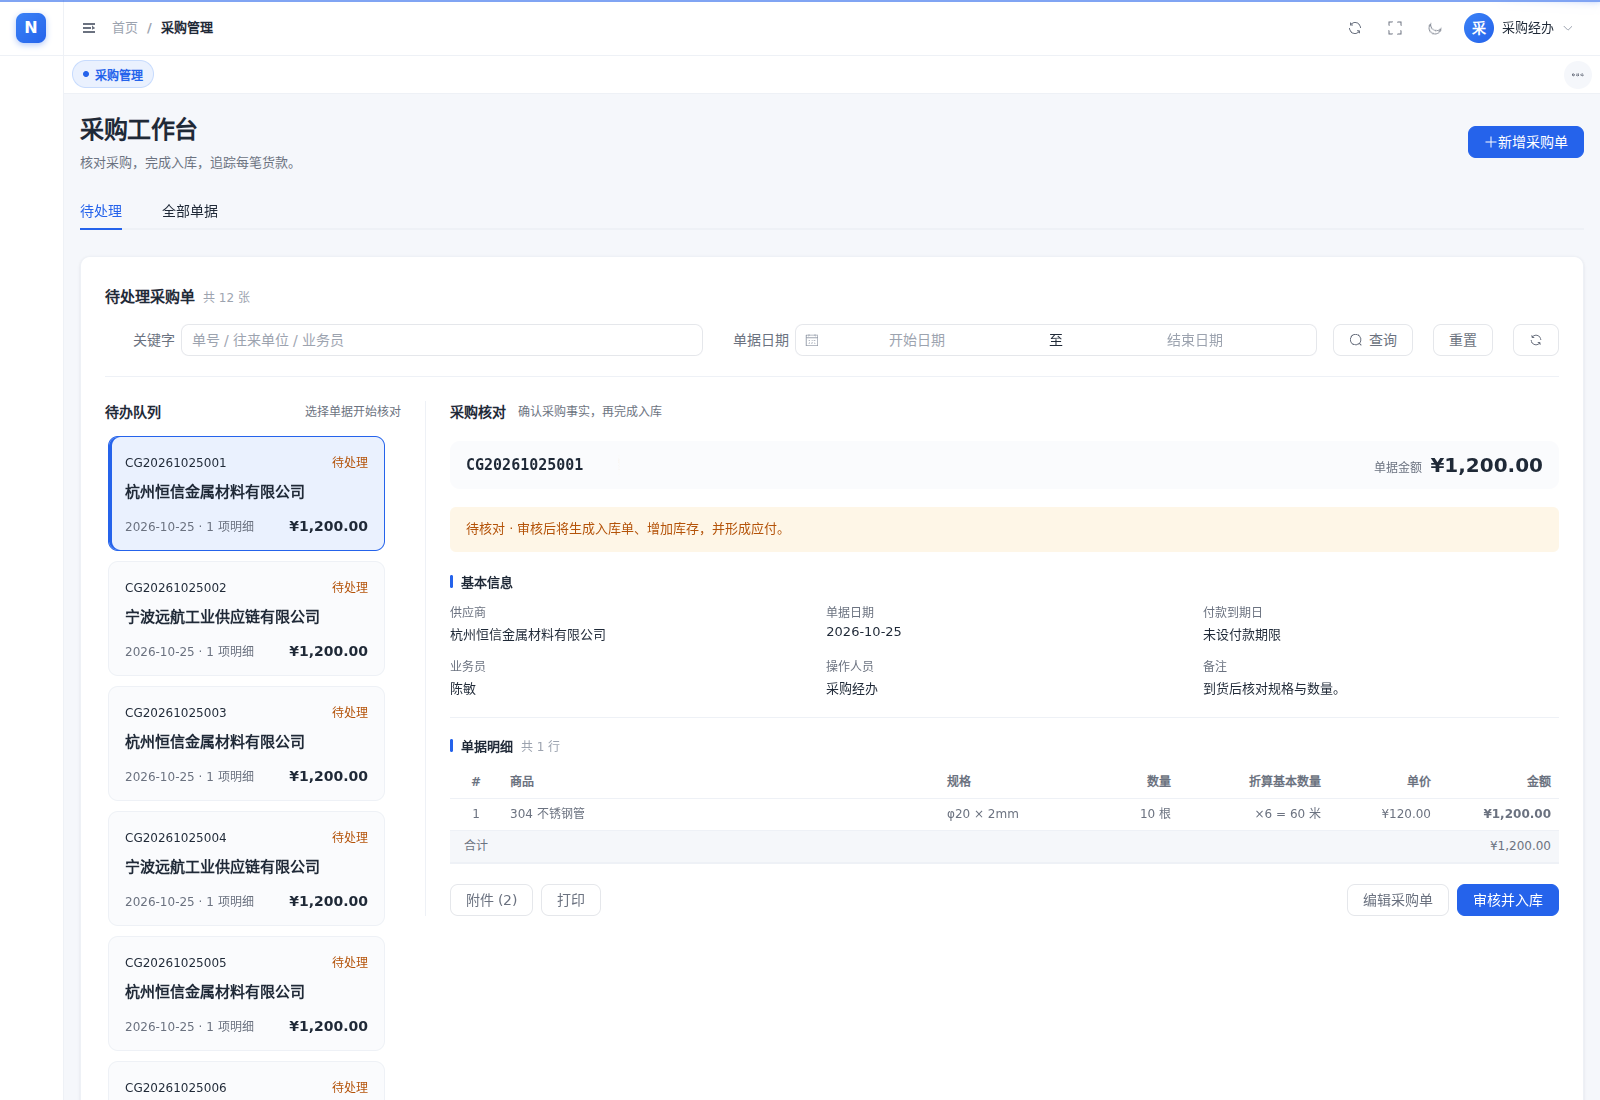
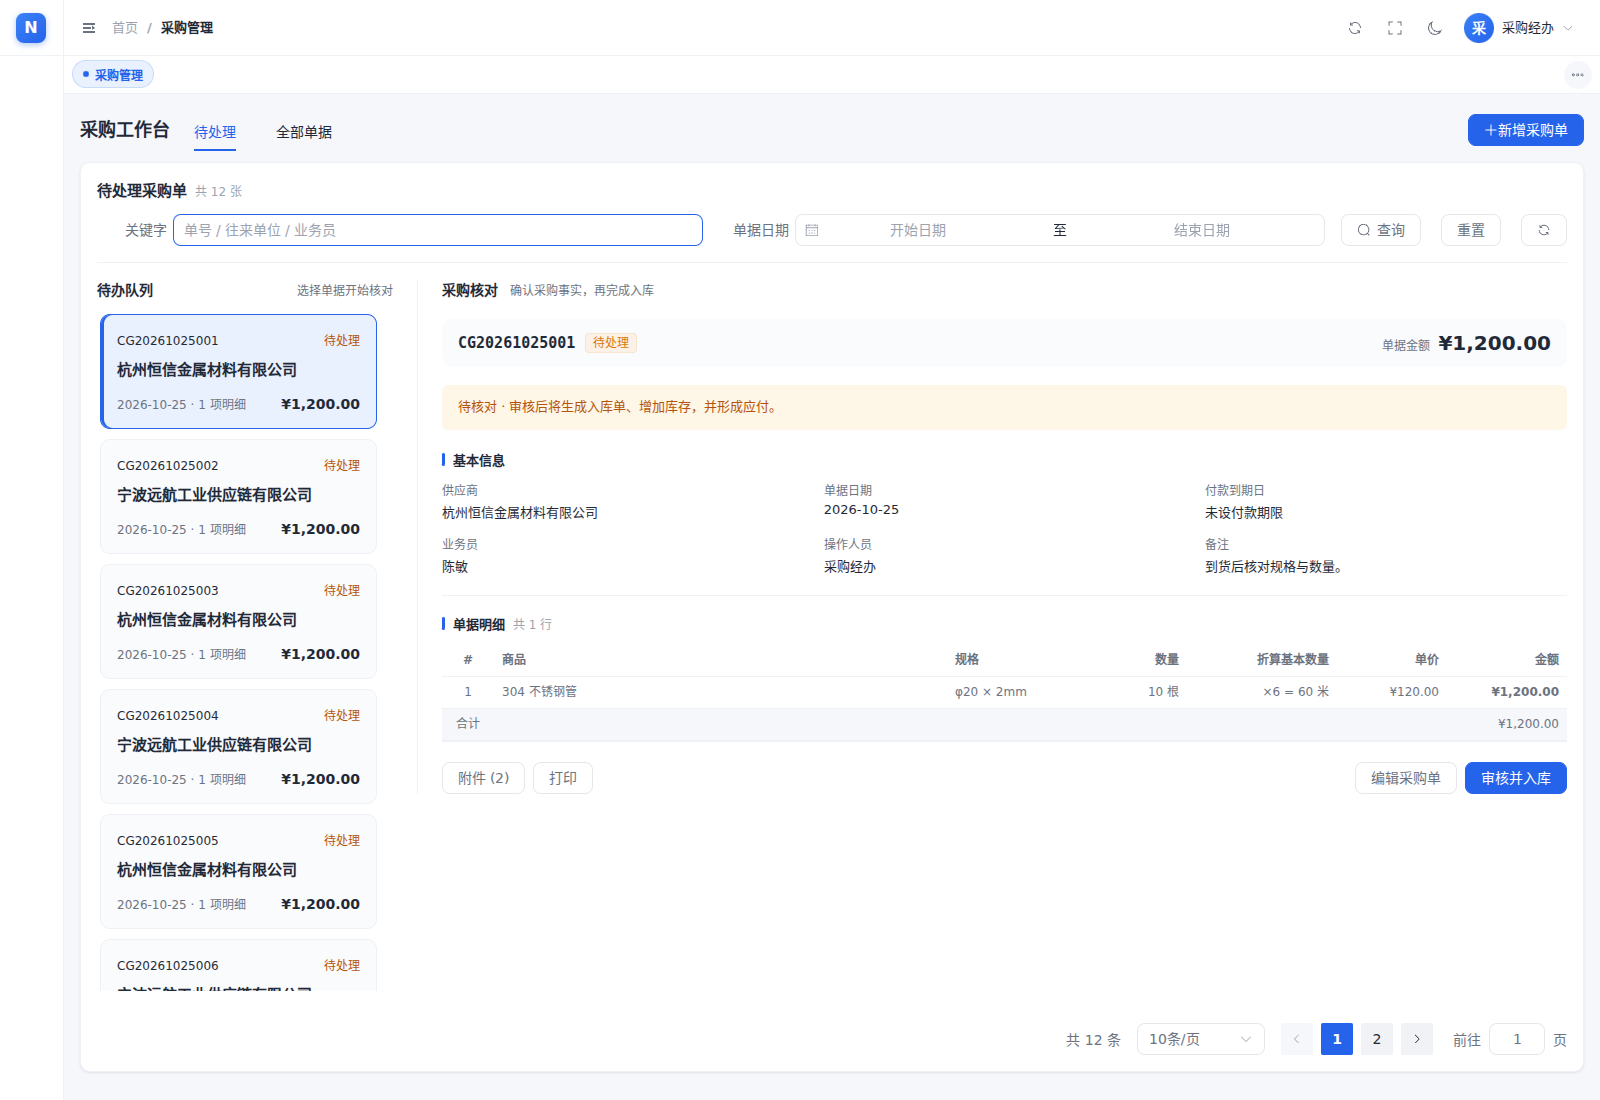
fix(ui): compact purchase header and prevent stretched queue cards
Put title, view tabs and create action in one row without the subtitle. Keep single-record queue cards at their natural height and keep purchase dates/count headers on one line. Add geometry checks for the reported screenshot cases and refresh the preview.

Validated with 27 unit tests, production build and 15 mocked-API browser scenarios.

diff --git a/frontend/src/views/inv/components/OrderPage.vue b/frontend/src/views/inv/components/OrderPage.vue
@@ -943,10 +943,15 @@ function onKeywordInput(): void {
 <template>
   <div class="order-page" :class="{ 'purchase-page': isPurchase }">
     <header v-if="isPurchase" class="purchase-header">
-      <div>
-        <h1>采购工作台</h1>
-        <p>核对采购，完成入库，追踪每笔货款。</p>
-      </div>
+      <h1>采购工作台</h1>
+      <el-tabs
+        :model-value="workspaceView"
+        class="purchase-tabs"
+        @tab-change="changeView"
+      >
+        <el-tab-pane label="待处理" name="pending" />
+        <el-tab-pane label="全部单据" name="all" />
+      </el-tabs>
       <el-button
         v-perm="'inv:purchase:create'"
         type="primary"
@@ -955,15 +960,6 @@ function onKeywordInput(): void {
         <AppIcon name="Plus" />新增采购单
       </el-button>
     </header>
-    <el-tabs
-      v-if="isPurchase"
-      :model-value="workspaceView"
-      class="purchase-tabs"
-      @tab-change="changeView"
-    >
-      <el-tab-pane label="待处理" name="pending" />
-      <el-tab-pane label="全部单据" name="all" />
-    </el-tabs>
     <div class="page-card">
       <!-- 搜索与操作合并一行：左侧列表名，中间筛选（自动折行），右侧查询/重置/新建/刷新 -->
       <div class="list-head">
@@ -1185,7 +1181,11 @@ function onKeywordInput(): void {
         >
           <template #default="{ row }">{{ row.partyName }}</template>
         </el-table-column>
-        <el-table-column prop="orderDate" label="单据日期" width="100">
+        <el-table-column
+          prop="orderDate"
+          label="单据日期"
+          :width="isPurchase ? 112 : 100"
+        >
           <template #default="{ row }">{{ formatDay(row.orderDate) }}</template>
         </el-table-column>
         <el-table-column
@@ -1195,7 +1195,11 @@ function onKeywordInput(): void {
         >
           <template #default="{ row }">{{ formatDay(row.dueDate) }}</template>
         </el-table-column>
-        <el-table-column label="明细" width="52" align="center">
+        <el-table-column
+          label="明细"
+          :width="isPurchase ? 72 : 52"
+          align="center"
+        >
           <template #default="{ row }">{{ row.itemCount }} 行</template>
         </el-table-column>
         <el-table-column label="金额" width="112" align="right">
@@ -1686,36 +1690,42 @@ function onKeywordInput(): void {
 .purchase-header {
   display: flex;
   align-items: center;
-  justify-content: space-between;
-  gap: 20px;
-  margin-bottom: 16px;
+  gap: 24px;
+  margin-bottom: 12px;
+  min-height: 40px;
   h1 {
     margin: 0;
-    font-size: 24px;
+    flex: none;
+    font-size: 18px;
+    line-height: 32px;
     font-weight: 600;
-    letter-spacing: -0.4px;
-  }
-  p {
-    margin: 8px 0 0;
-    color: var(--app-text-secondary);
-    font-size: 13px;
-    line-height: 1.6;
   }
 }
 .purchase-tabs {
-  margin-bottom: 12px;
+  flex: 1;
+  min-width: 0;
+  :deep(.el-tabs__header) {
+    margin: 0;
+  }
+  :deep(.el-tabs__nav-wrap::after) {
+    display: none;
+  }
 }
 .purchase-page {
   .page-card {
-    padding: 24px;
+    padding: 16px;
   }
   .list-head {
     grid-template-columns: minmax(0, 1fr) auto;
-    margin-bottom: 24px;
-    padding-bottom: 20px;
+    margin-bottom: 16px;
+    padding-bottom: 16px;
     border-bottom: 1px solid var(--app-border-light);
   }
+  :deep(.el-table .cell) {
+    white-space: nowrap;
+  }
   .list-head__title {
+    line-height: 24px;
     grid-column: 1 / -1;
     width: 100%;
     color: var(--app-text);
@@ -1772,11 +1782,18 @@ function onKeywordInput(): void {
 }
 @media (max-width: 800px) {
   .purchase-header {
-    align-items: flex-start;
+    gap: 8px 16px;
     flex-wrap: wrap;
   }
   .purchase-header h1 {
-    font-size: 22px;
+    font-size: 18px;
+  }
+  .purchase-header .purchase-tabs {
+    order: 3;
+    flex-basis: 100%;
+  }
+  .purchase-header > .el-button {
+    margin-left: auto;
   }
   .purchase-page .page-card {
     padding: 16px;

diff --git a/frontend/src/views/inv/components/PurchaseWorkbench.vue b/frontend/src/views/inv/components/PurchaseWorkbench.vue
@@ -145,6 +145,8 @@ defineEmits<{
     overflow-y: auto;
     scrollbar-gutter: stable;
     display: grid;
+    align-content: start;
+    grid-auto-rows: max-content;
     gap: 10px;
     padding: 3px 6px 3px 3px;
   }

diff --git a/DESIGN.md b/DESIGN.md
@@ -48,11 +48,11 @@ components:
 
 ## Typography
 
-沿用系统中文字体回退链，不下载装饰字体。采购页标题 24px/600，区标题与供应商 14–15px/600，正文 13–14px，辅助信息 12px。金额使用 tabular-nums，单号可使用系统等宽字体；中文说明保持正常字重与至少 1.6 行高。
+沿用系统中文字体回退链，不下载装饰字体。采购页标题 18px/600，区标题与供应商 14–15px/600，正文 13–14px，辅助信息 12px。金额使用 tabular-nums，单号可使用系统等宽字体；中文说明保持正常字重与至少 1.6 行高。
 
 ## Layout
 
-现有外壳由 `.layout__content` 负责滚动。采购页不另设 100vh 或裁剪祖先。内容卡片桌面 padding 24px、窄屏 16px；组间 20–24px，组内 8–12px。待办宽 296px，中等窗口 248px，核对区填充剩余空间；800px 以下切换为队列/详情单列，保留返回路径。明细表横向滚动，录入表单保持自然高度并沿用 xl 弹窗。
+现有外壳由 `.layout__content` 负责滚动。采购页不另设 100vh 或裁剪祖先。内容卡片统一 padding 16px；采购标题、视图与新增按钮桌面同排，不展示说明段落；组间 20–24px，组内 8–12px。待办卡片按内容自然高度排列，单条数据也不拉伸填满容器。日期、数量及金额在表格中不换行，列宽不足时使用表格横向滚动。待办宽 296px，中等窗口 248px，核对区填充剩余空间；800px 以下切换为队列/详情单列，保留返回路径。明细表横向滚动，录入表单保持自然高度并沿用 xl 弹窗。
 
 ## Elevation & Depth
 

diff --git a/docs/PURCHASE_WORKBENCH.md b/docs/PURCHASE_WORKBENCH.md
@@ -4,6 +4,7 @@
 
 ![待处理采购工作台](images/purchase-workbench.png)
 
+- 紧凑页头：标题、视图切换与新增同排，去掉说明段落；单张待办保持自然高度，日期与表头保持单行。
 - 待处理：左侧分页队列，右侧核对明细、附件、打印、编辑与审核。核心内容持续可见。
 - 全部单据：保留分页表格，单号直接打开详情，辅助操作收进更多菜单。
 - 付款到期日明确用途；未审核不显示已形成的应付状态。
@@ -22,7 +23,7 @@ npx playwright install chromium
 npm run test:purchase
 ```
 
-本次结果：27 项单元测试通过；类型检查与生产构建通过；14 个采购浏览器场景通过，未捕获浏览器异常为 0。
+本次结果：27 项单元测试通过；类型检查与生产构建通过；15 个采购浏览器场景通过，未捕获浏览器异常为 0。
 
 采购浏览器脚本自动启动 Vite，使用模拟 API 驱动真实 Vue 页面。覆盖加载/失败/恢复、慢响应竞态、保存、审核、分页、中文下拉与日历、只读权限、窄屏焦点和销售列表回归。截图为模拟数据，不证明真实后端入库或付款事务已验收。
 
